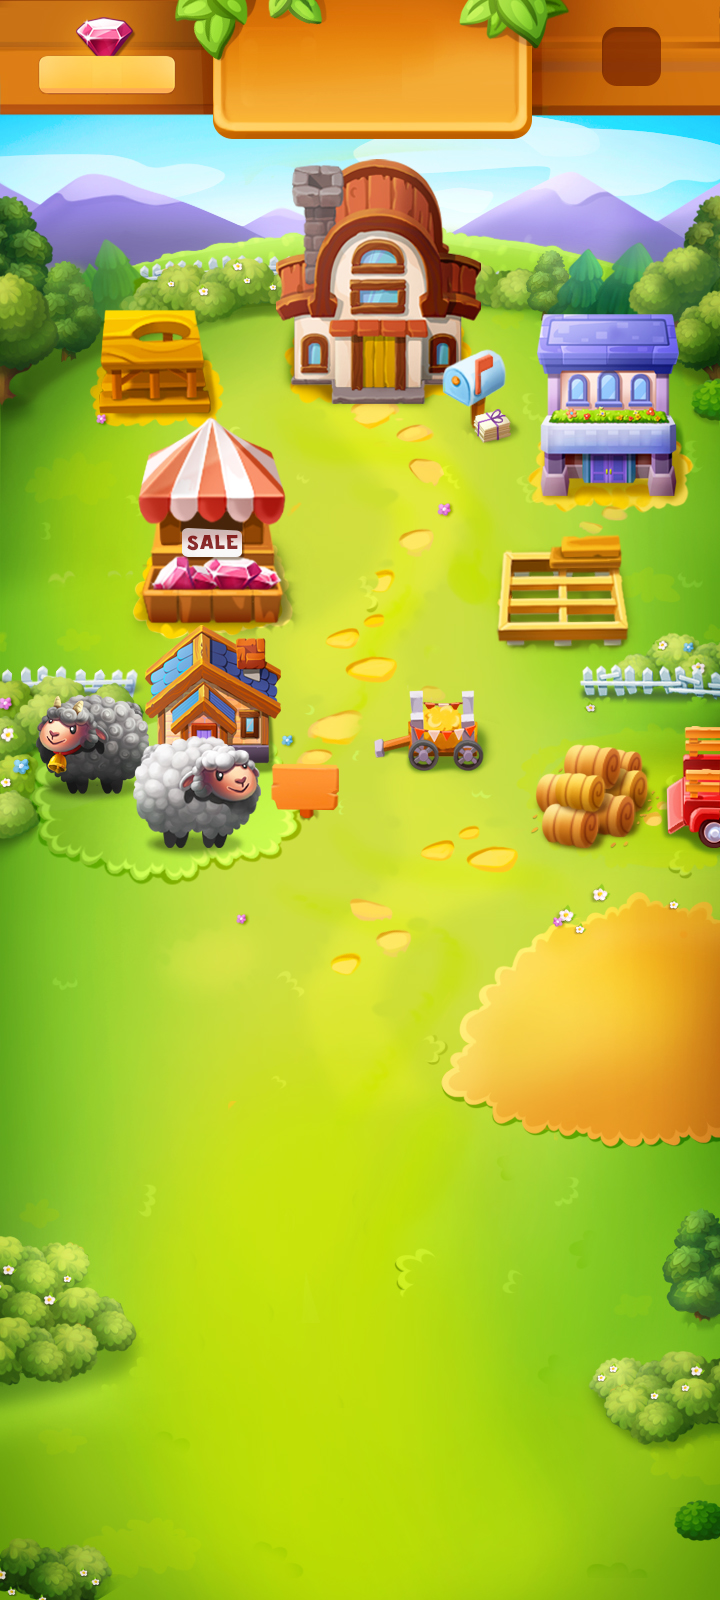
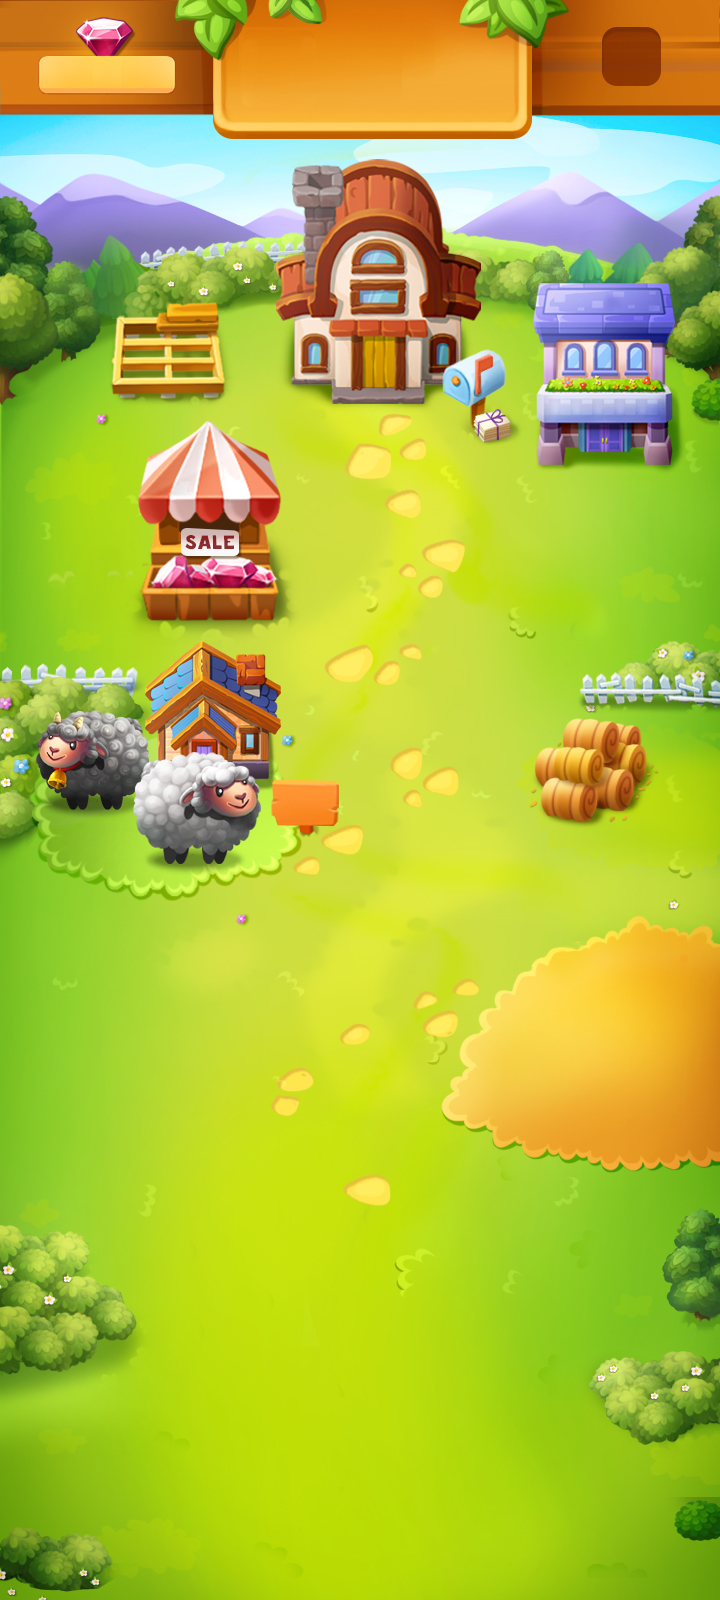
add fortune wheel sprites on map

diff --git a/src/scripts/scenes/Profile.ts b/src/scripts/scenes/Profile.ts
@@ -15,12 +15,15 @@ const profileLockIcon: string = require('./../../assets/images/icons/profile-loc
 const eventIsland: string = require('./../../assets/images/profile/event-island.png');
 const btn: string = require('./../../assets/images/profile/btn.png');
 const pointer: string = require('./../../assets/images/profile/pointer.png');
-const fortune: string = require('./../../assets/images/profile/event-fortune.png');
 const socialBtnVk: string = require('./../../assets/images/profile/social-btn-vk.png');
 const socialBtnOk: string = require('./../../assets/images/profile/social-btn-ok.png');
 const closeWindowBtn: string = require('../../assets/images/modal/close-window-btn.png');
 const clanFlagpole: string = require('../../assets/images/clan/flagpole.png');
 const clanBuilding: string = require('../../assets/images/clan/clan-building.png');
+const fortuneBg: string = require('./../../assets/images/profile/fortune-bg.png');
+const fortuneWheel: string = require('./../../assets/images/profile/fortune-wheel.png');
+const fortunePointer: string = require('./../../assets/images/profile/fortune-pointer.png');
+
 
 const progressTextStyle: Phaser.Types.GameObjects.Text.TextStyle = {
   fontFamily: 'Shadow',
@@ -56,13 +59,13 @@ class Profile extends Phaser.Scene {
   private socialTaskBtn: Phaser.GameObjects.Sprite;
   private socialTaskNotificator: Notificator;
   private socialTasks: IsociaTasks;
-  private currentEndTime: string = ' ';
   private currentDiamonds: number;
   private animDiamondsCount: number = 0;
   private shopNotificator: Notificator;
   private clanNotificator: Notificator;
   private personalMessageNotificator: Notificator;
   private clanFlagPole: ClanFlagPole;
+  private fortunePool: Phaser.GameObjects.Text;
   public click = click.bind(this);
   public clickShopBtn = clickShopBtn.bind(this);
   public getEventRaiting = getEventRaiting.bind(this); 
@@ -94,9 +97,11 @@ class Profile extends Phaser.Scene {
     this.load.image('profile-cow-farm-lock', cowFarmLock);
     this.load.image('profile-lock-icon', profileLockIcon);
     this.load.image('profile-event-island', eventIsland);
+    this.load.image('profile-fortune-bg', fortuneBg);
+    this.load.image('profile-fortune-wheel', fortuneWheel);
+    this.load.image('profile-fortune-pointer', fortunePointer);
     this.load.image('profile-btn', btn);
     this.load.image('profile-pointer', pointer);
-    this.load.image('profile-fortune', fortune);
     this.load.image('profile-social-btn-vk', socialBtnVk);
     this.load.image('profile-social-btn-ok', socialBtnOk);
     this.load.image('close-window-btn', closeWindowBtn);
@@ -219,7 +224,7 @@ class Profile extends Phaser.Scene {
   }
 
   private createSheepFarm(): void {
-    const farmPosition: Iposition = { x: 150, y: 750 };
+    const farmPosition: Iposition = { x: 150, y: 767 };
     const width: number = 300;
     const height: number = 240;
     
@@ -442,28 +447,43 @@ class Profile extends Phaser.Scene {
       prize: 0,
       jackpot: false,
     }
-    this.state.socket.io.emit('fortune-send', data);
-    const zoneSettings = {
-      x: 570,
-      y: 580,
-      width: 170,
+    const pos = {
+      x: 560,
+      y: 560,
+      width: 200,
       height: 170,
     };
+
+    const bg = this.add.sprite(pos.x, pos.y, 'profile-fortune-bg');
+    const wheel = this.add.sprite(pos.x + 31, pos.y - 10, 'profile-fortune-wheel');
+    const pointer = this.add.sprite(pos.x + 32, pos.y - 10, 'profile-fortune-pointer');
+
+    if (this.state.userSheep.part < OPENING_LEVEL || !this.checkAuthUser()) {
+      bg.setTint(0xbbbbbb);
+      wheel.setTint(0xbbbbbb).setAlpha(0.80);
+      pointer.setTint(0xbbbbbb).setAlpha(0.80);
+    } else {
+      this.state.socket.io.emit('fortune-send', data);
+      this.fortunePool = this.add.text(pos.x, pos.y, '123', {
+        
+      });
+    }
+
     const fortuneZone: Phaser.GameObjects.Zone = this.add.zone(
-      zoneSettings.x, 
-      zoneSettings.y, 
-      zoneSettings.width, 
-      zoneSettings.height,
+      pos.x, 
+      pos.y, 
+      pos.width, 
+      pos.height,
     ).setDropZone(undefined, () => {});
 
-    this.add.graphics()
-      .lineStyle(5, 0x00FFFF)
-      .strokeRect(
-        fortuneZone.x - fortuneZone.input.hitArea.width / 2,
-        fortuneZone.y - fortuneZone.input.hitArea.height / 2,
-        fortuneZone.width,
-        fortuneZone.height
-      );  
+    // this.add.graphics()
+    //   .lineStyle(5, 0x00FFFF)
+    //   .strokeRect(
+    //     fortuneZone.x - fortuneZone.input.hitArea.width / 2,
+    //     fortuneZone.y - fortuneZone.input.hitArea.height / 2,
+    //     fortuneZone.width,
+    //     fortuneZone.height
+    //   );  
 
     this.click(fortuneZone, (): void => {
       if (this.state.userSheep.part >= OPENING_LEVEL && this.checkAuthUser()) {
@@ -630,8 +650,8 @@ class Profile extends Phaser.Scene {
 
   private createClan(): void {
     const pos: Iposition = {
-      x: 610,
-      y: 400
+      x: 600,
+      y: 360
     };
     const size: Isize = {
       width: 150,
@@ -889,8 +909,8 @@ class Profile extends Phaser.Scene {
   private updateClanFlagPole(): void {
     if (this.state.clan && !this.clanFlagPole) {
       const pos: Iposition = {
-        x: 610,
-        y: 400
+        x: 605,
+        y: 375
       };
       this.clanFlagPole = new ClanFlagPole(this, { x: pos.x, y: pos.y - 100 }).setDepth(2);
     }
